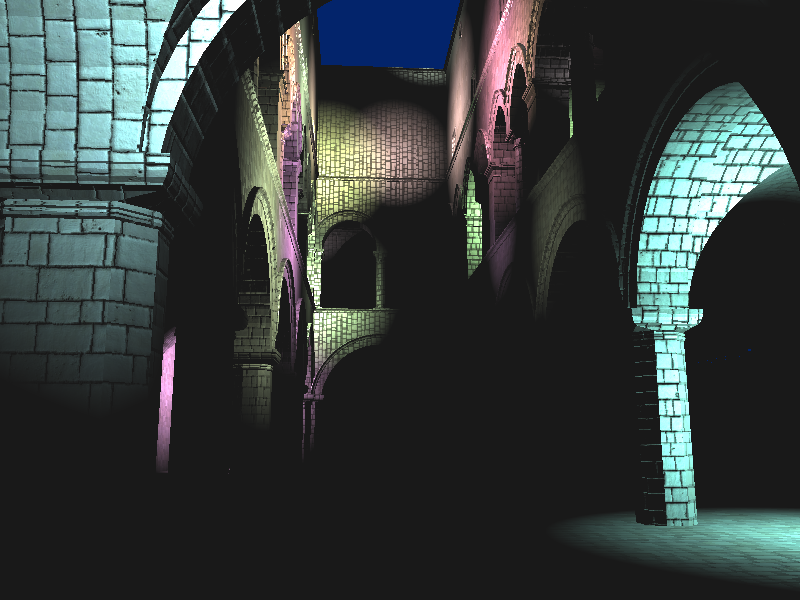
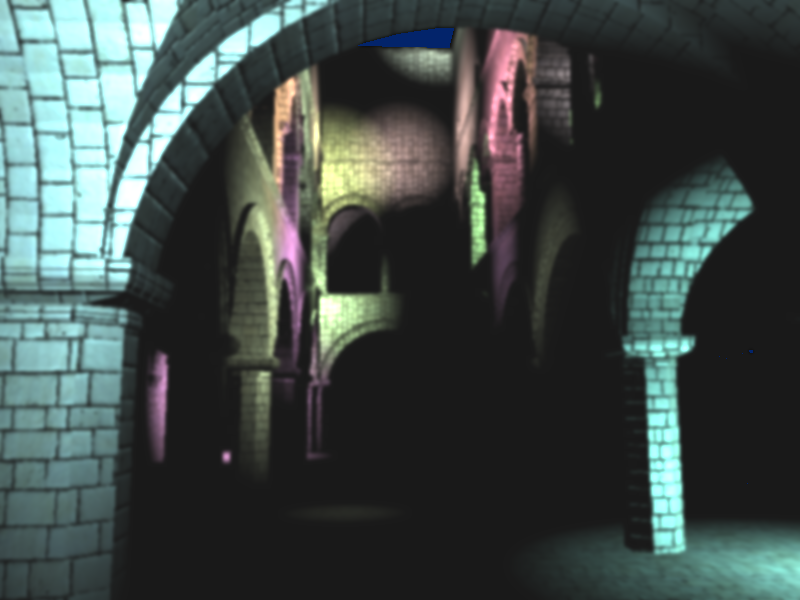
implemented blo... oh no, blur

diff --git a/js/deferredSetup.js b/js/deferredSetup.js
@@ -5,6 +5,7 @@
     R.pass_copy = {};
     R.pass_debug = {};
     R.pass_deferred = {};
+    R.pass_bloom = {};
     R.pass_post1 = {};
     R.lights = [];
 
@@ -18,6 +19,7 @@
         loadAllShaderPrograms();
         R.pass_copy.setup();
         R.pass_deferred.setup();
+        R.pass_bloom.setup();
     };
 
     // TODO: Edit if you want to change the light initial positions
@@ -99,6 +101,29 @@
     };
 
     /**
+     * Create/configure framebuffers on "bloom" stage
+     */
+    R.pass_bloom.setup = function() {
+        // * Create the FBO
+        var fbos = []
+        var color_texs = []
+        for (var i = 0; i < 2; i++)
+        {
+            fbos.push(gl.createFramebuffer());
+            color_texs.push(createAndBindColorTargetTexture(
+            fbos[i], gl_draw_buffers.COLOR_ATTACHMENT0_WEBGL));
+
+            // * Check for framebuffer errors
+            abortIfFramebufferIncomplete(fbos[i]);
+            
+            gl_draw_buffers.drawBuffersWEBGL([gl_draw_buffers.COLOR_ATTACHMENT0_WEBGL]);
+            gl.bindFramebuffer(gl.FRAMEBUFFER, null);
+        }
+        R.pass_bloom.fbos = fbos;
+        R.pass_bloom.colorTexs = color_texs;
+    };
+
+    /**
      * Loads all of the shader programs used in the pipeline.
      */
     var loadAllShaderPrograms = function() {
@@ -158,6 +183,13 @@
         });
 
         // TODO: If you add more passes, load and set up their shader programs.
+        loadBloomProgram('bloom', function(p) {
+            p.u_color    = gl.getUniformLocation(p.prog, 'u_color');
+            p.u_horizontal = gl.getUniformLocation(p.prog, 'u_horizontal');
+            p.u_tex_offset = gl.getUniformLocation(p.prog, 'u_tex_offset');
+            // Save the object into this variable for access later
+            R.prog_bloom = p;
+        });
     };
 
     var loadDeferredProgram = function(name, callback) {
@@ -180,6 +212,20 @@
     };
 
     var loadPostProgram = function(name, callback) {
+        loadShaderProgram(gl, 'glsl/quad.vert.glsl',
+                          'glsl/post/' + name + '.frag.glsl',
+            function(prog) {
+                // Create an object to hold info about this shader program
+                var p = { prog: prog };
+
+                // Retrieve the uniform and attribute locations
+                p.a_position = gl.getAttribLocation(prog, 'a_position');
+
+                callback(p);
+            });
+    };
+
+    var loadBloomProgram = function(name, callback) {
         loadShaderProgram(gl, 'glsl/quad.vert.glsl',
                           'glsl/post/' + name + '.frag.glsl',
             function(prog) {

diff --git a/js/deferredRender.js b/js/deferredRender.js
@@ -10,7 +10,8 @@
             !R.prog_Ambient ||
             !R.prog_BlinnPhong_PointLight ||
             !R.prog_Debug ||
-            !R.progPost1)) {
+            !R.progPost1 ||
+            !R.prog_bloom)) {
             console.log('waiting for programs to load...');
             return;
         }
@@ -38,6 +39,9 @@
             // * Deferred pass and postprocessing pass(es)
             // DONE: uncomment these
             R.pass_deferred.render(state);
+
+            R.pass_bloom.render(state);
+
             R.pass_post1.render(state);
 
             // OPTIONAL TODO: call more postprocessing passes, if any
@@ -161,6 +165,7 @@
 
         // Disable blending so that it doesn't affect other code
         gl.disable(gl.BLEND);
+        R.previous_pass_tex_output = R.pass_deferred.colorTex;
     };
 
     var bindTexturesForLightPass = function(prog) {
@@ -176,6 +181,41 @@
         gl.activeTexture(gl['TEXTURE' + R.NUM_GBUFFERS]);
         gl.bindTexture(gl.TEXTURE_2D, R.pass_copy.depthTex);
         gl.uniform1i(prog.u_depth, R.NUM_GBUFFERS);
+    };
+
+    /**
+     * 'bloom' pass: apply bloom to the scene
+     */
+    R.pass_bloom.render = function(state) {
+        gl.useProgram(R.prog_bloom.prog);
+
+        gl.uniform2fv(R.prog_bloom.u_tex_offset, [1.0 / width, 1.0/ height]);
+
+        for (let i = 0; i < 2; i++)
+        {
+            gl.bindFramebuffer(gl.FRAMEBUFFER, R.pass_bloom.fbos[i]);
+
+            // gl.clearDepth(1.0);
+            // gl.clear(gl.DEPTH_BUFFER_BIT);
+
+            gl.uniform1i(R.prog_bloom.u_horizontal, i);
+            if (i == 0)
+            {
+                gl.activeTexture(gl.TEXTURE0);
+                gl.bindTexture(gl.TEXTURE_2D, R.pass_deferred.colorTex);
+            }
+            else
+            {
+                gl.activeTexture(gl.TEXTURE0);
+                gl.bindTexture(gl.TEXTURE_2D, R.pass_bloom.colorTexs[0]);
+            }
+            gl.uniform1i(R.prog_bloom.u_color, 0);
+
+
+            renderFullScreenQuad(R.prog_bloom);
+        }
+
+        R.previous_pass_tex_output = R.pass_bloom.colorTexs[1];
     };
 
     /**
@@ -199,7 +239,8 @@
 
         // Bind the TEXTURE_2D, R.pass_deferred.colorTex to the active texture unit
         // DONE: uncomment
-        gl.bindTexture(gl.TEXTURE_2D, R.pass_deferred.colorTex);
+        gl.bindTexture(gl.TEXTURE_2D, R.previous_pass_tex_output);
+        //gl.bindTexture(gl.TEXTURE_2D, R.pass_deferred.colorTex);
 
         // Configure the R.progPost1.u_color uniform to point at texture unit 0
         gl.uniform1i(R.progPost1.u_color, 0);
